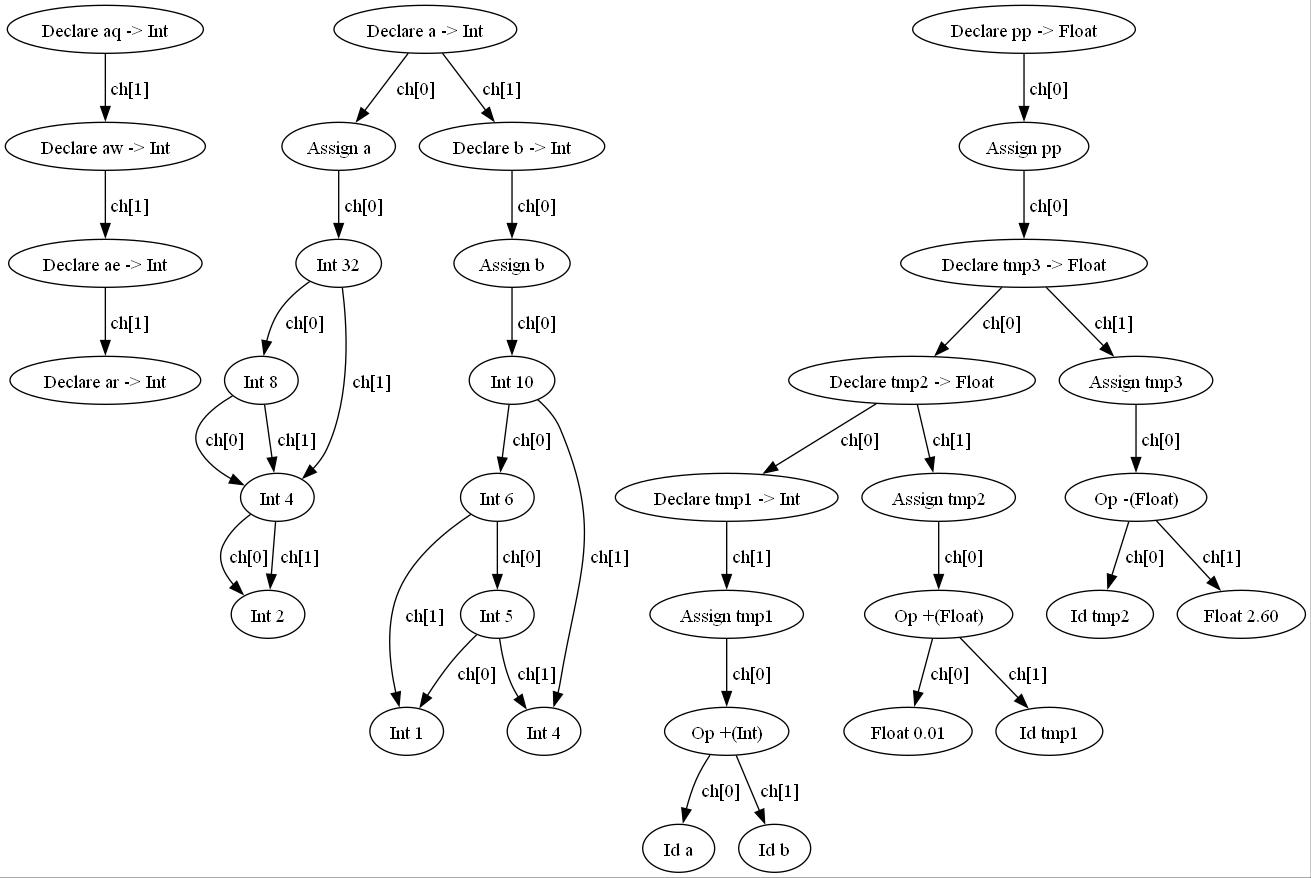
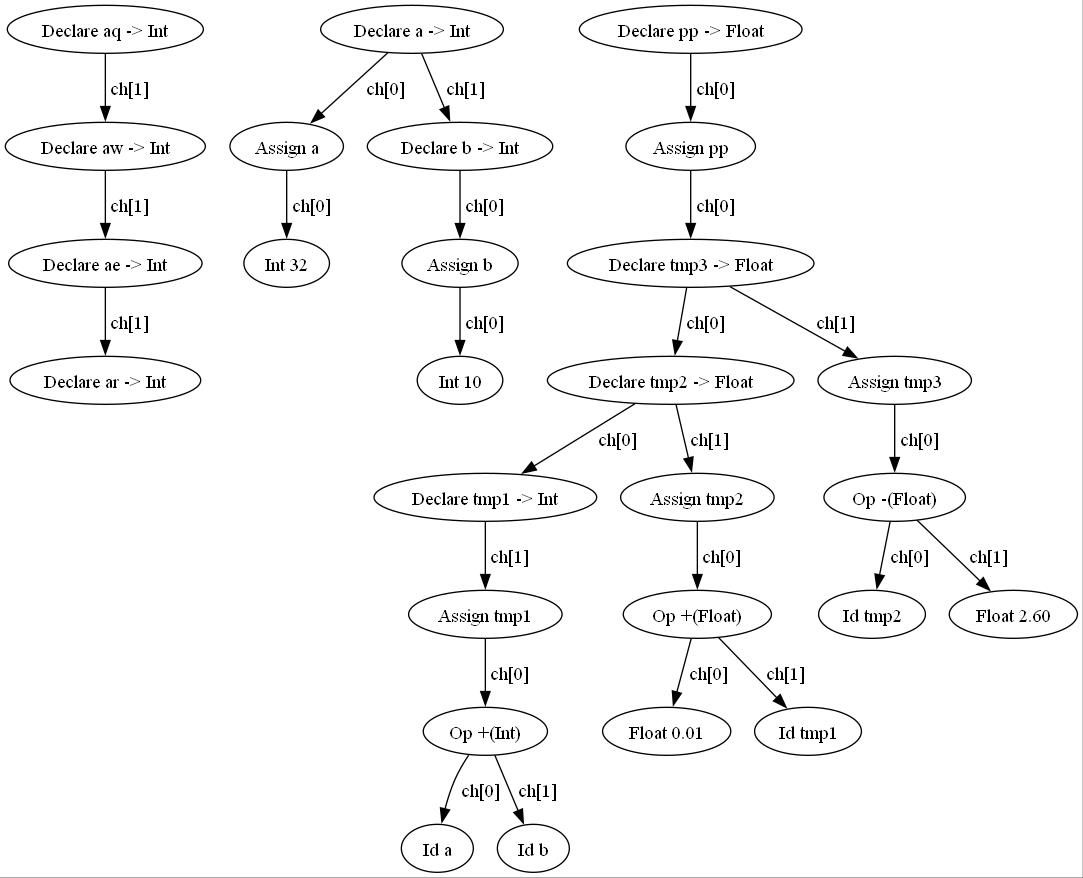
delete unnecessary edges

diff --git a/TC/PARSE.C b/TC/PARSE.C
@@ -373,6 +373,7 @@ TreeNode * simple_exp(void)
           if (t->child[1]->type == Float) t2 = t->child[1]->attr.attr.valfloat;
           else t2 = t->child[1]->attr.attr.valint;
 
+          t->kind.exp = ConstK;
           t->attr.type = (AttrType)max(ty1, ty2);
           if (t->attr.type == Int)
           {
@@ -393,12 +394,11 @@ TreeNode * simple_exp(void)
             }
           }
 
-          /*
-          delete t->child[0];
+          // delete t->child[0];
           t->child[0] = NULL;
-          delete t->child[1];
+          // delete t->child[1];
           t->child[1] = NULL;
-          */
+
         }
       }
 
@@ -435,16 +435,16 @@ TreeNode * term(void)
           if (t->child[1]->type == Float) t2 = t->child[1]->attr.attr.valfloat;
           else t2 = t->child[1]->attr.attr.valint;
 
+          t->kind.exp = ConstK;
           t->attr.type = (AttrType)max(ty1, ty2);
           if (t->attr.type == Int) t->attr.attr.valint = (int)(t->attr.attr.op == TIMES ? (t1 * t2) : (t1 / t2));
           else t->attr.attr.valfloat = (t->attr.attr.op == TIMES ? (t1 * t2) : (t1 / t2));
 
-          /*
-          delete t->child[0];
+          // delete t->child[0];
           t->child[0] = NULL;
-          delete t->child[1];
+          // delete t->child[1];
           t->child[1] = NULL;
-          */
+
         }
       }
 
